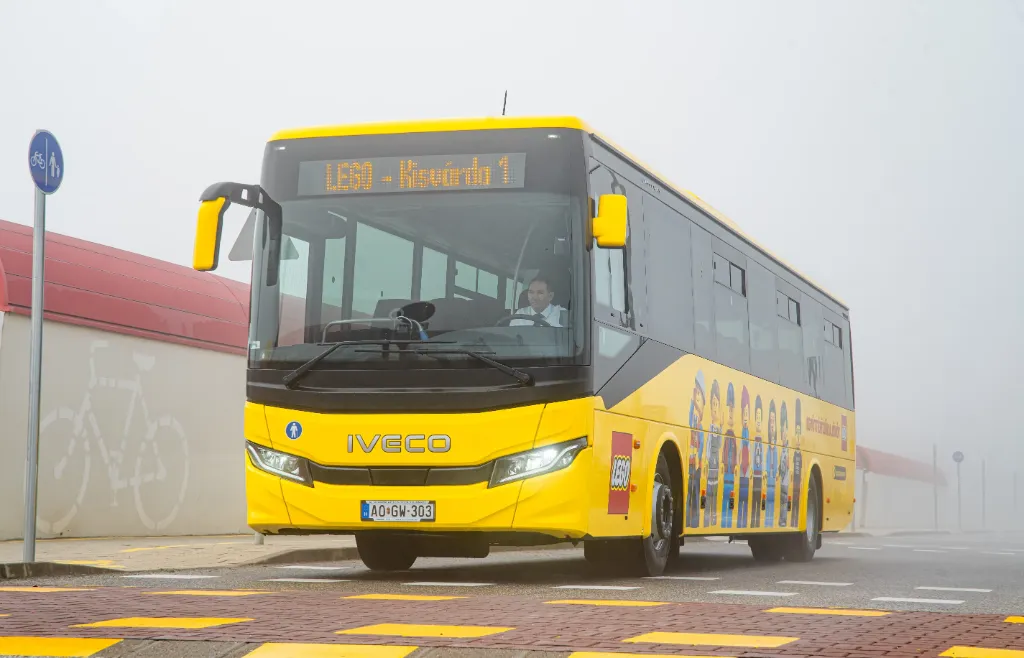
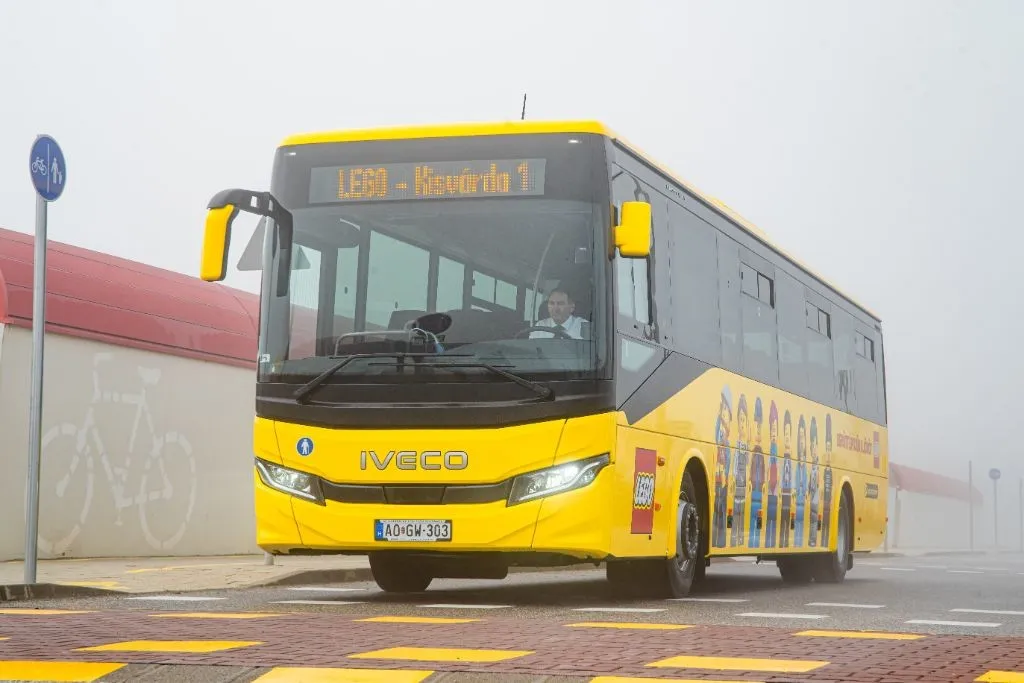
Dodata vest za Lego Iveco

diff --git a/site/content/serbian/vesti/lego-iveco-crossway-autobusi-madjarska.md b/site/content/serbian/vesti/lego-iveco-crossway-autobusi-madjarska.md
@@ -1,0 +1,51 @@
+---
+title: "IVECO CROSSWAY autobusi za LEGO zaposlene u Mađarskoj"
+date: 2026-01-09T00:00:00+06:00
+bg_image: "images/backgrounds/blog/lego-iveco-crossway-autobusi-madjarska-background.webp"
+description : "U Mađarskoj, flota od **15 IVECO CROSSWAY autobusa**, dekorisanih u prepoznatljivim bojama brenda **LEGO®**, svakodnevno saobraća ulicama grada **Njiređhaza (Nyíregyháza)**, prevozeći gotovo **2.000 zaposlenih** između njihovih domova i radnih mesta."
+image: "https://www.balkantransport.net/images/blog/lego-iveco-crossway-autobusi-madjarska/img1.webp"
+author: "Luka Kalinić"
+categories: ["Prevoznici", "Autobusi"]
+tags: ["Iznajmljivanje autobusa", "iveco"]
+videoUrl: ""   
+pageUrl: "blog/lego-iveco-crossway-autobusi-madjarska"
+type: "post"
+---
+
+U gradu Njiređhaza, kompanije **IVECO BUS** i **ECO-tech visiON Kft.**, zvanični lokalni distributer, isporučile su **15 CROSSWAY Line autobusa** svom kupcu – kompaniji **RÉVÉSZ Group**. Ovi autobusi, obučeni u prepoznatljive LEGO® boje, obezbeđuju svakodnevni prevoz skoro 2.000 zaposlenih, doprinoseći efikasnoj i bezbednoj mobilnosti u regionu.
+
+Idealni za kratke i srednje relacije, ovi autobusi dužine **13 metara** nude bezbedno i prijatno putovanje, uz integraciju najnovijih inovacija u oblasti bezbednosti i komfora.
+
+Konkretne prednosti za LEGO® zaposlene:
+
+* **Optimalan komfor** – moderna oprema, Wi-Fi u vozilu, ergonomska sedišta  
+* **Povećana bezbednost** – ADAS sistemi asistencije vozaču  
+* **Kapacitet** – do 59 putnika po vozilu  
+* **Razigran dizajn** – dekoracija u LEGO® bojama koja unosi vedrinu u svakodnevna putovanja  
+
+Ovaj prevozni servis, koji u potpunosti finansira LEGO®, savršeno se uklapa u pristup koji promoviše dobrobit zaposlenih i održivu mobilnost.
+
+> „Ponosni smo što naši CROSSWAY autobusi imaju ključnu ulogu u projektu osmišljenom da unapredi svakodnevni život zaposlenih, uz istovremeno slavljenje LEGO® kreativnosti. Ova inicijativa predstavlja inspirativan primer korporativne mobilnosti i potvrđuje našu posvećenost bezbednim, udobnim i visokoperformansnim transportnim rešenjima – kako za zaposlene, tako i za širu zajednicu“, izjavio je **Jan Kimla**, direktor poslovanja IVECO BUS-a za Centralnu i Istočnu Evropu i Nordijske zemlje.
+
+{{< photoswipe >}}
+
+![Lego Iveco Crossway](/images/blog/lego-iveco-crossway-autobusi-madjarska/img1.webp)
+![Lego Iveco Crossway](/images/blog/lego-iveco-crossway-autobusi-madjarska/img2.webp)
+![Lego Iveco Crossway](/images/blog/lego-iveco-crossway-autobusi-madjarska/img3.webp)
+![Lego Iveco Crossway](/images/blog/lego-iveco-crossway-autobusi-madjarska/img4.webp)
+
+{{< /photoswipe >}}
+
+---
+
+## O kompaniji IVECO BUS
+
+**IVECO BUS** je brend kompanije **Iveco Group N.V.**, globalnog lidera u oblasti komercijalnih i specijalnih vozila, pogonskih sistema i finansijskih usluga. Kompanija projektuje, proizvodi i plasira širok spektar vozila za gradski, međugradski, školski i turistički prevoz.
+
+Sa snažnim prisustvom širom sveta i vodećom pozicijom u Evropi u oblasti održivog javnog transporta, IVECO BUS podržava privatne i javne prevoznike u energetskoj tranziciji kroz tehnološki neutralan pristup – uključujući biogoriva, biometan, baterijsko-električna i vodonična rešenja.
+
+Kompanija zapošljava više od **5.500 ljudi** i upravlja sa **sedam proizvodnih pogona** u Evropi i Južnoj Americi.
+
+Za više informacija: **www.ivecobus.com**
+
+---
